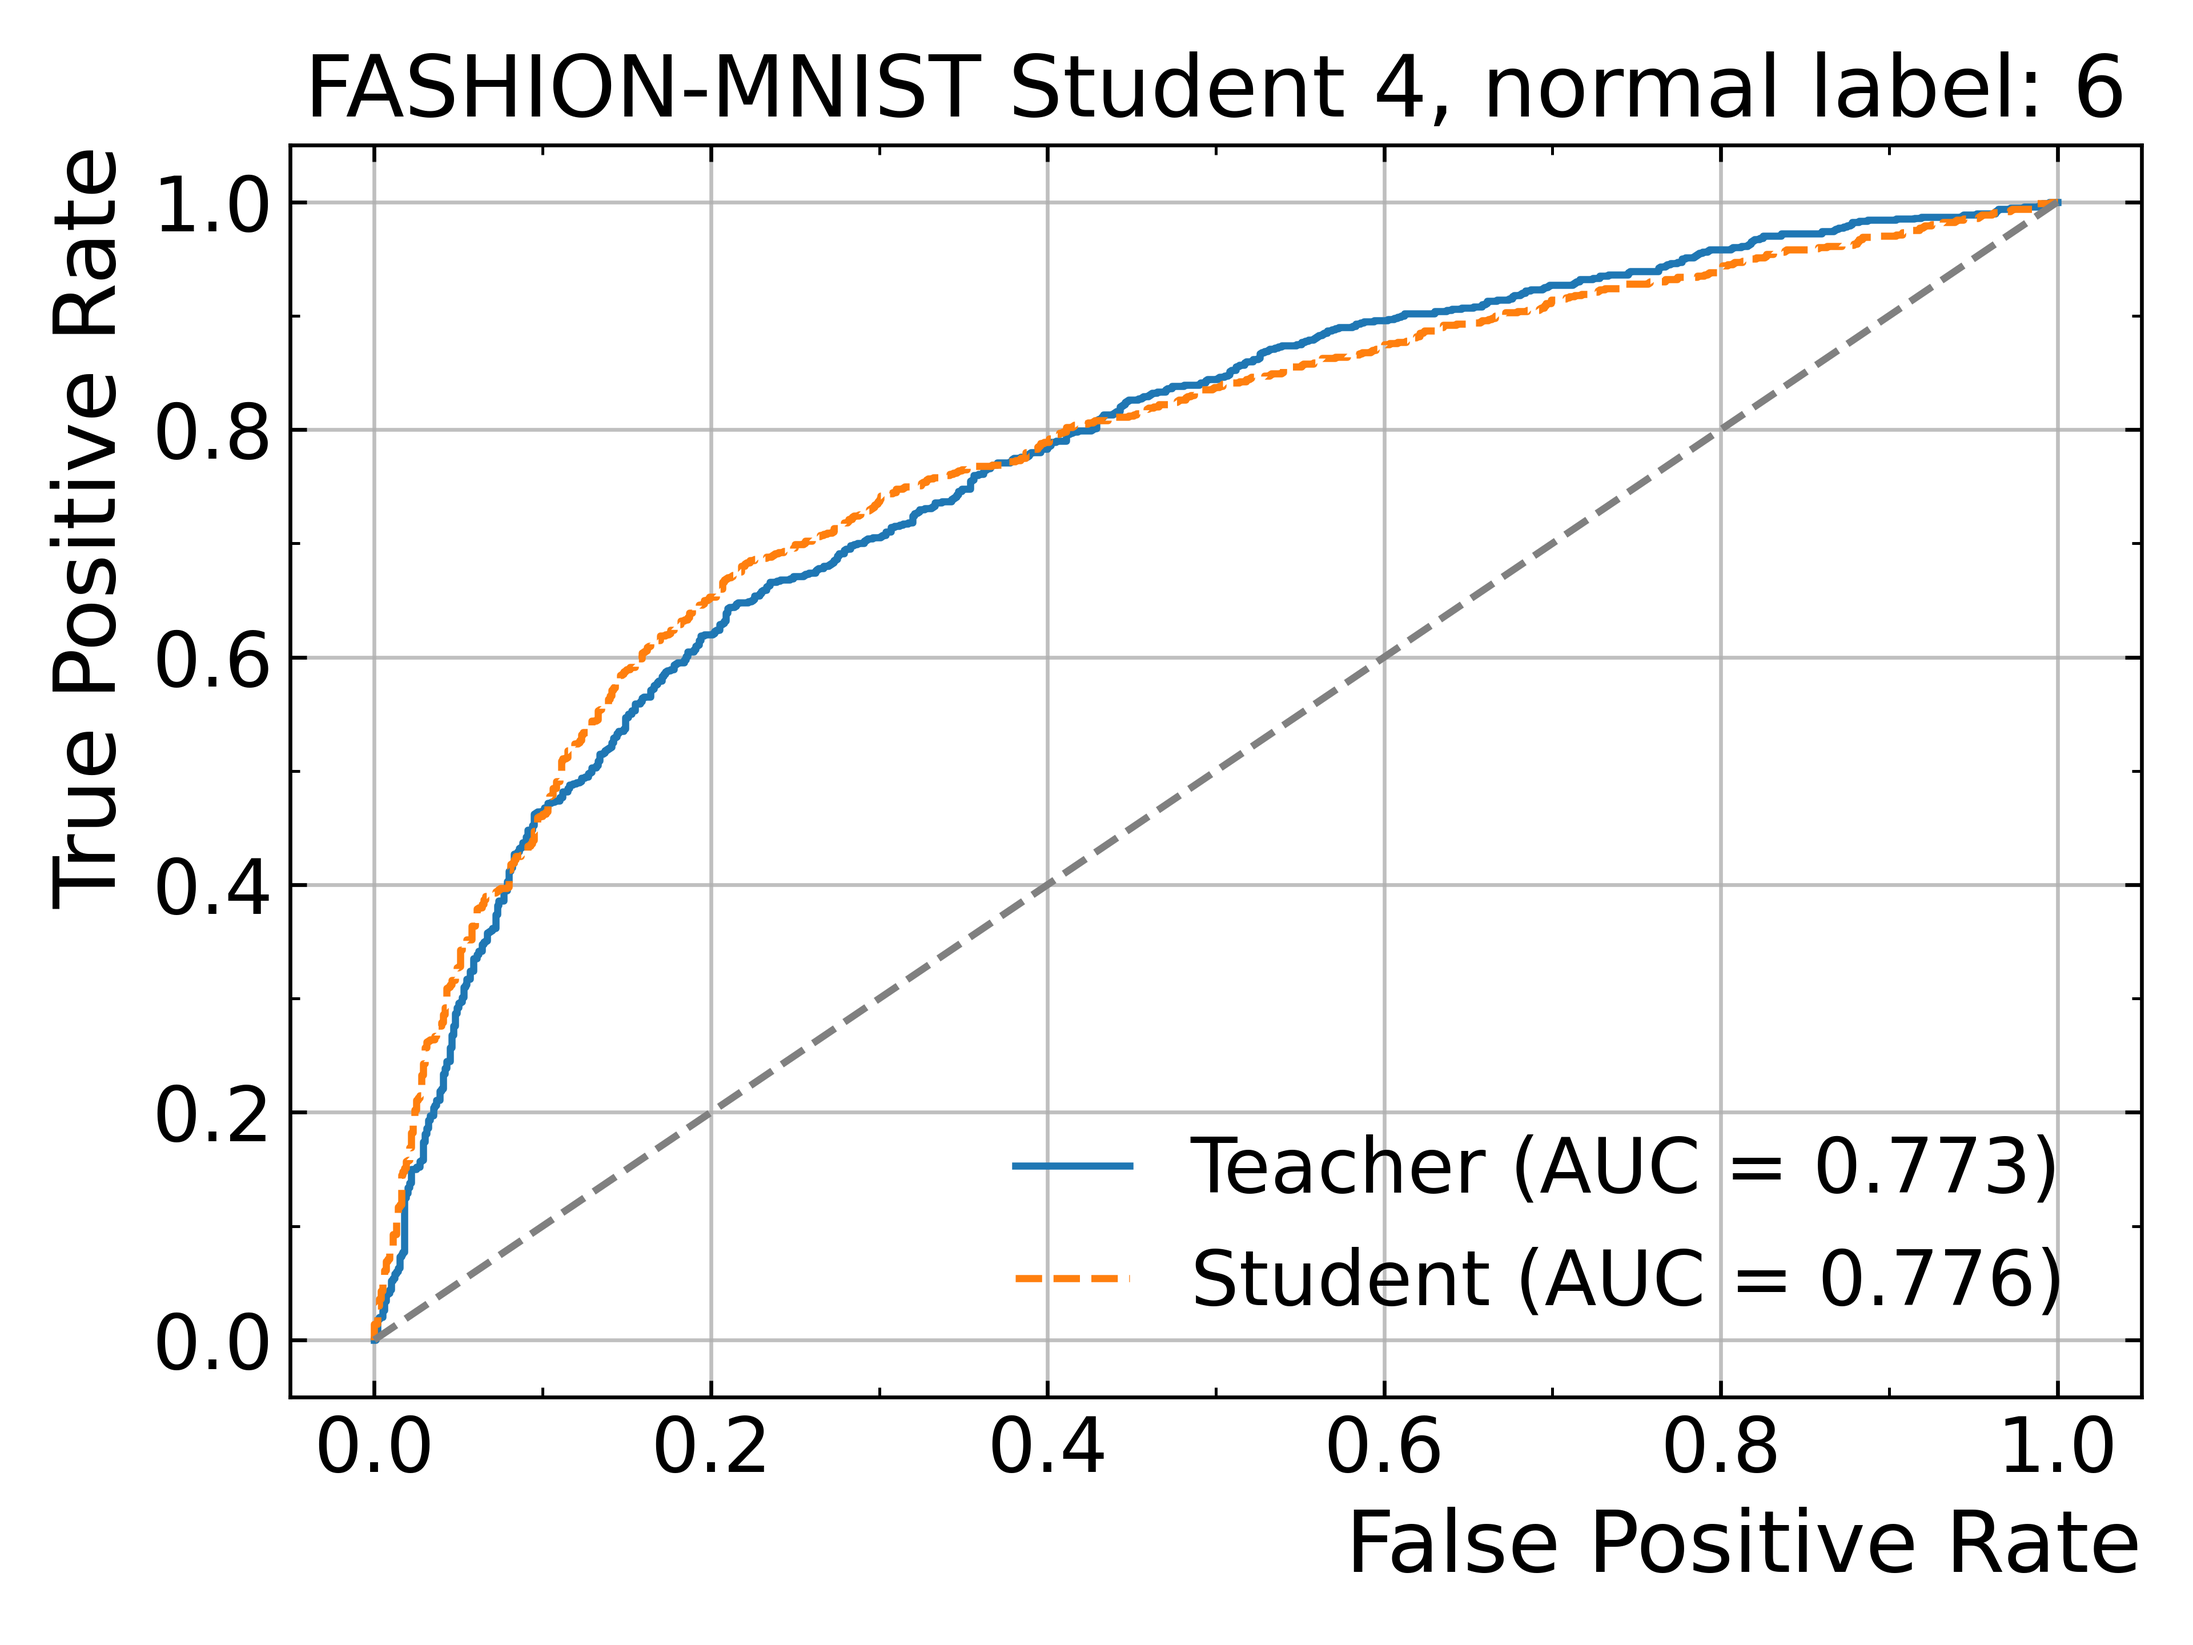
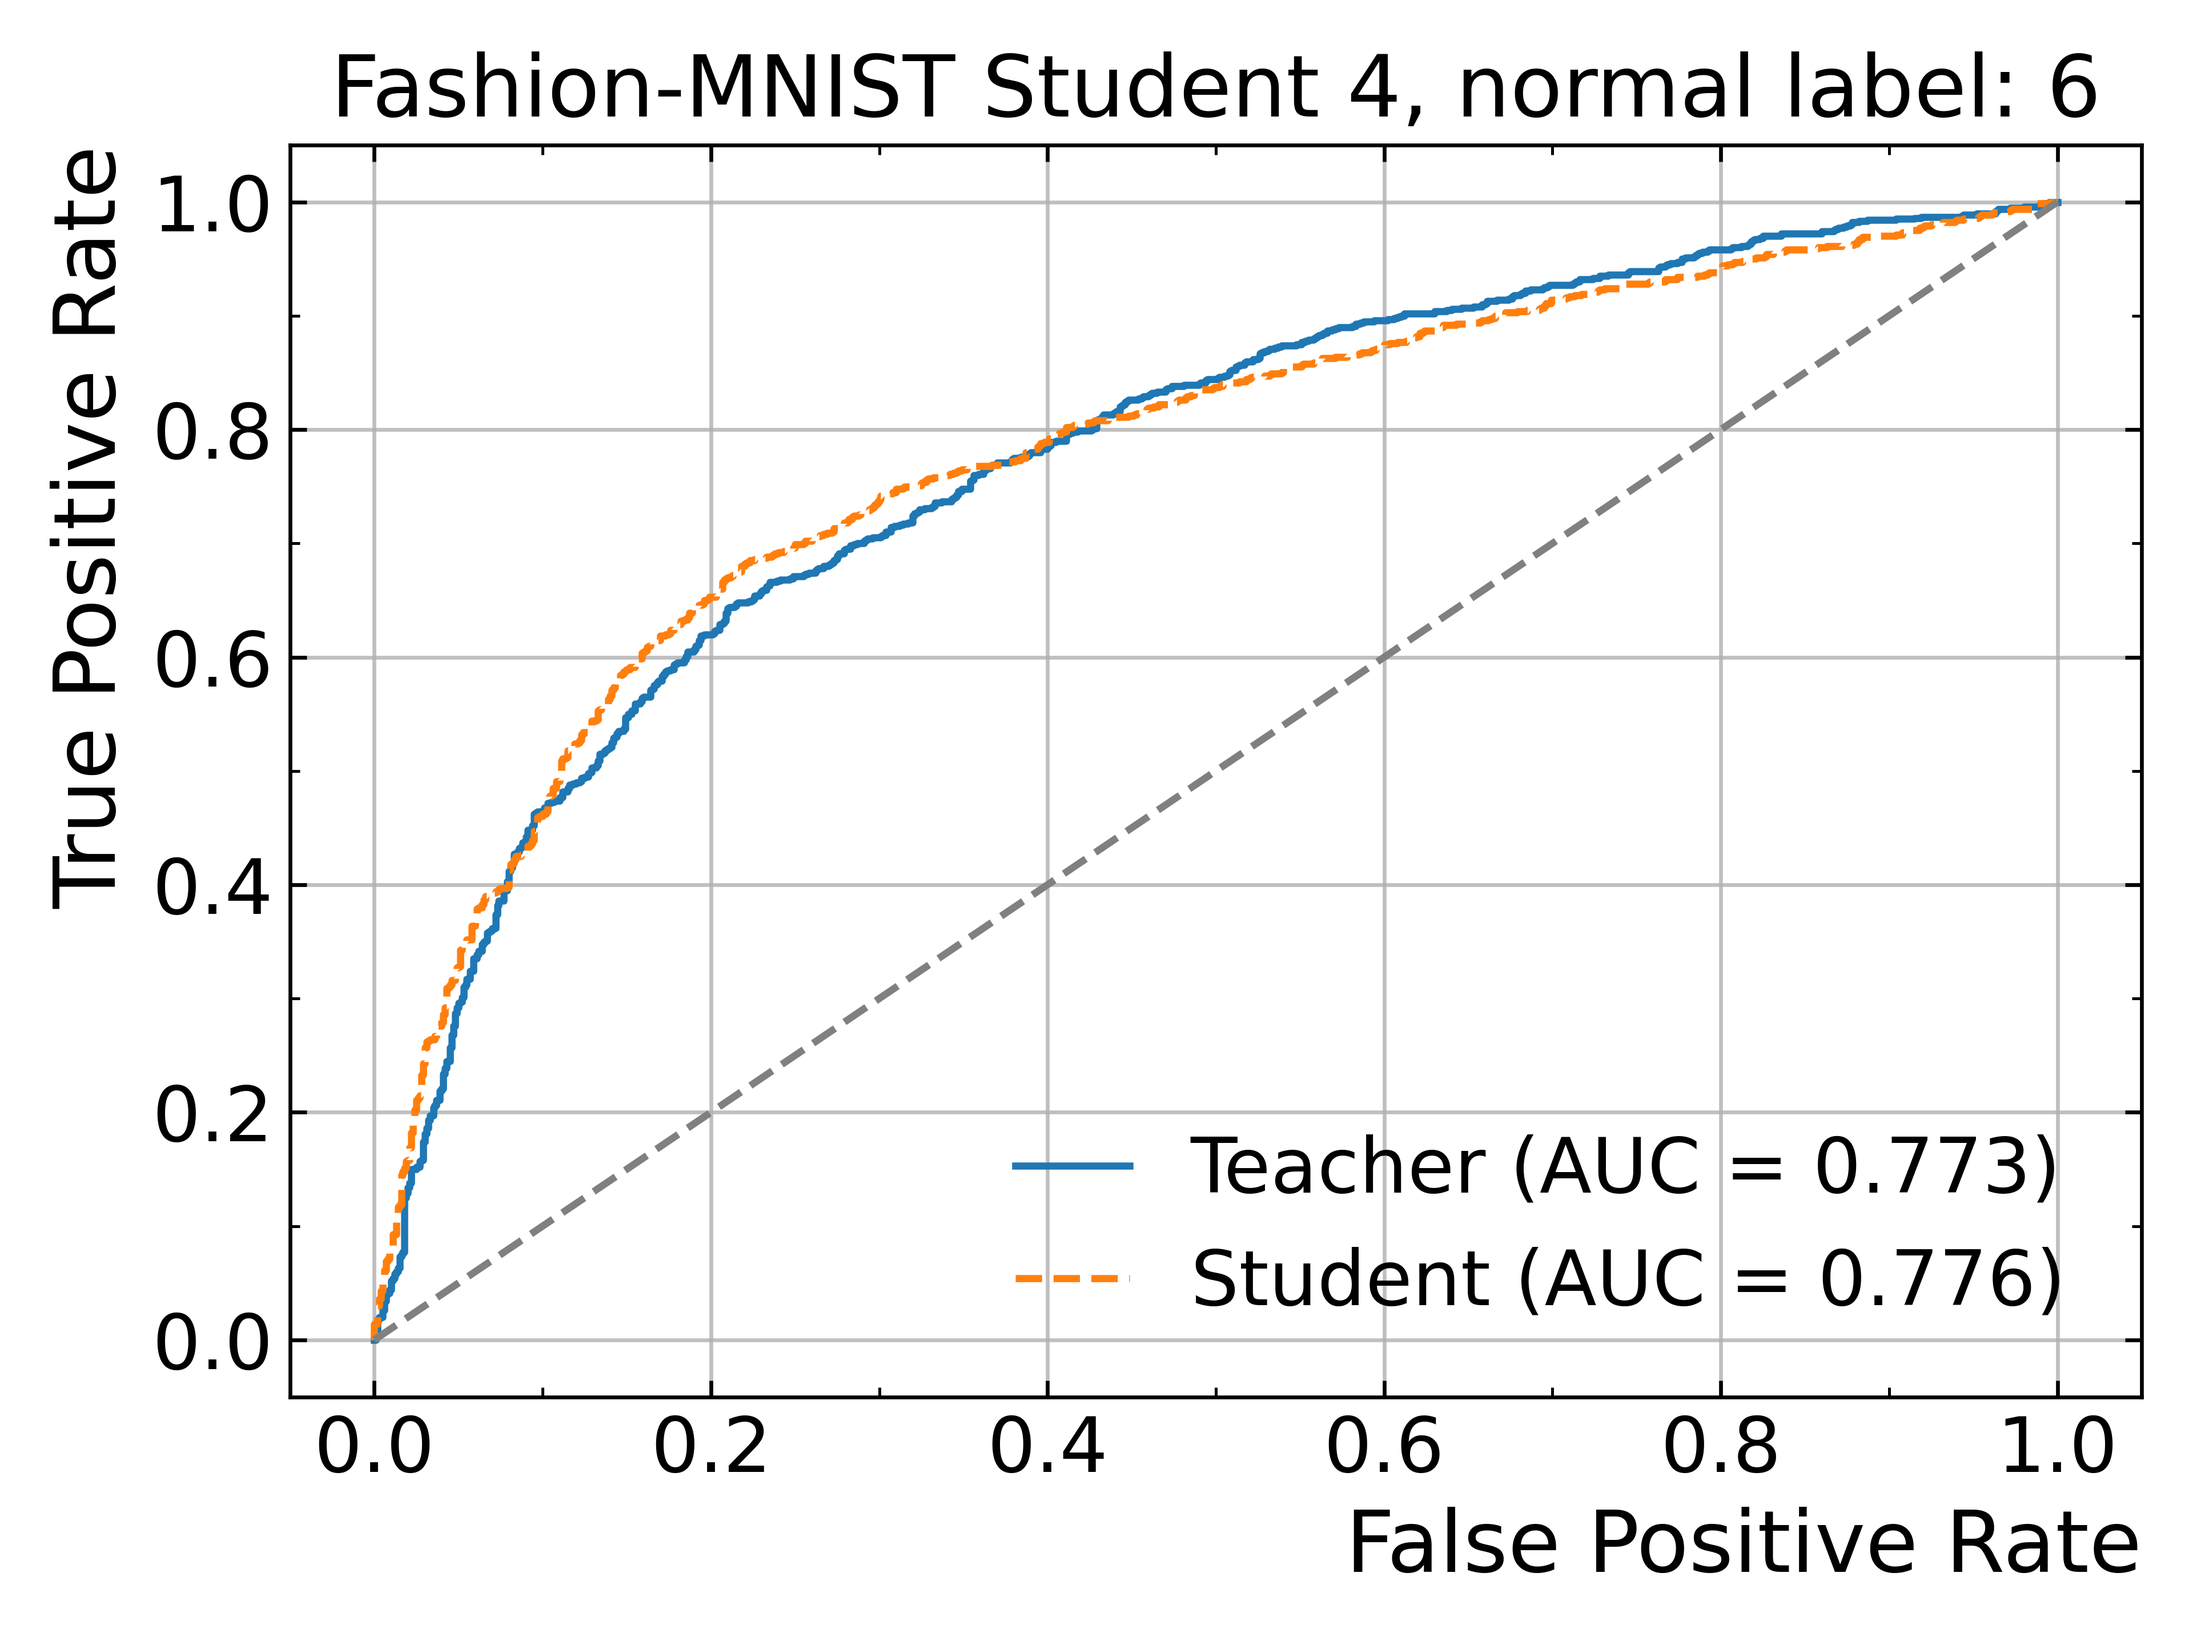
update plots

Changed region(s): [[0.125, 0.0312, 0.9688, 0.0938]]

diff --git a/FASHION_MNIST/4_test_student.py b/FASHION_MNIST/4_test_student.py
@@ -123,7 +123,7 @@ ax.set_ylim(0,45)
 ax.xaxis.set_minor_locator(MultipleLocator(0.01))
 ax.yaxis.set_minor_locator(MultipleLocator(5))
 ax.tick_params(axis="both", which = 'both', direction="in",top=True, right=True, labelsize = fs-2)
-plt.suptitle('FASHION-MNIST Student 4, normal label: %s' % digit, fontsize = fs)
+plt.suptitle('Fashion-MNIST Student 4, normal label: %s' % digit, fontsize = fs)
 plt.tight_layout(rect=[0, 0, 0.98, 1])
 plt.savefig('FMNIST_distr.png', dpi = 600)
 plt.show()
@@ -153,7 +153,7 @@ plt.plot(student_fpr, student_tpr, linestyle = '--', label = 'Student (AUC = %s)
 plt.plot([0,0.2,0.5,0.7,1], [0,0.2,0.5,0.7,1], linestyle = '--', color = 'gray', zorder = 3)
 plt.legend(fontsize =  fs-2, frameon=False, handlelength= 1.5, borderpad= 0.5)
 plt.grid(zorder = 1, alpha = 0.8)
-plt.title('FASHION-MNIST Student 4, normal label: %s' % (digit), fontsize = fs)
+plt.title('Fashion-MNIST Student 4, normal label: %s' % (digit), fontsize = fs)
 plt.xlabel('False Positive Rate', loc = 'right', fontsize = fs)
 plt.ylabel('True Positive Rate', loc = 'top', fontsize = fs)
 ax.xaxis.set_minor_locator(MultipleLocator(0.1))
@@ -169,7 +169,7 @@ plt.plot(teacher_recall, teacher_precision, label = 'Teacher (AUC = %s)' % (teac
 plt.plot(student_recall, student_precision, linestyle = '--',label = 'Student (AUC = %s)' % ( student_AUC_PR), zorder = 4)
 plt.legend(fontsize =  fs-2, frameon=False, handlelength= 1.5, borderpad= 0.5)
 plt.grid(zorder = 1, alpha = 0.8)
-plt.title('FASHION-MNIST Student 4, normal label: %s' % (digit), fontsize = fs)
+plt.title('Fashion-MNIST Student 4, normal label: %s' % (digit), fontsize = fs)
 plt.xlabel('Recall', loc = 'right', fontsize = fs)
 plt.ylabel('Precision', loc = 'top', fontsize = fs)
 ax.xaxis.set_minor_locator(MultipleLocator(0.1))
@@ -177,7 +177,7 @@ ax.yaxis.set_minor_locator(MultipleLocator(0.1))
 ax.tick_params(axis="both", which = 'both', direction="in",top=True, right=True, labelsize = fs-2)
 #plt.savefig('PRC_normal_%s.png' % digit)
 plt.tight_layout()
-plt.savefig('FMNIST_PCR.png', dpi = 600)
+plt.savefig('FMNIST_PRC.png', dpi = 600)
 plt.show()
 
 np.save('student_normal_%s_time' % digit, np.mean(student_times))

diff --git a/MNIST/4_test_student.py b/MNIST/4_test_student.py
@@ -177,7 +177,7 @@ ax.yaxis.set_minor_locator(MultipleLocator(0.1))
 ax.tick_params(axis="both", which = 'both', direction="in",top=True, right=True, labelsize = fs-2)
 #plt.savefig('PRC_normal_%s.png' % digit)
 plt.tight_layout()
-plt.savefig('MNIST_PCR.png', dpi = 600)
+plt.savefig('MNIST_PRC.png', dpi = 600)
 plt.show()
 
 np.save('student_normal_%s_time' % digit, np.mean(student_times))
